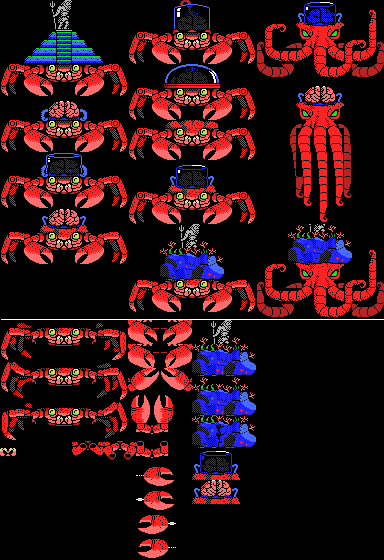
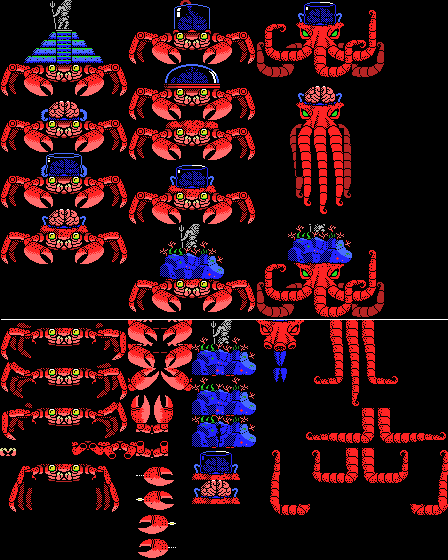
started adding actual tiles for scylla boss

diff --git a/java/src/xspelunker2/Bosses.java b/java/src/xspelunker2/Bosses.java
@@ -62,16 +62,16 @@ public static int atlantis_boss_collision[] = {
     
     public static void main(String args[]) throws Exception
     {
-        boss1Tiles();
-        boss1Sprites();
-
-        boss2Tiles();
-        boss2Sprites();
-
-        boss3Tiles();
-        boss3Sprites();
-
-        Boss4.main(args);
+//        boss1Tiles();
+//        boss1Sprites();
+//
+//        boss2Tiles();
+//        boss2Sprites();
+//
+//        boss3Tiles();
+//        boss3Sprites();
+//
+//        Boss4.main(args);
         
         boss5TilesCharybdis();
         boss5Sprites();
@@ -344,8 +344,8 @@ public static int atlantis_boss_collision[] = {
     
     public static void boss5TilesCharybdis() throws Exception
     {
-        // Step 1: create a base image that just has the crab tiles:
         {
+            // Create a base image that just has the crab tiles:
             // Charybdis body:
             String bossBaseTiles = "data/boss5-base-tiles.png";
             String boss5Tiles = "data/boss5.png";
@@ -353,7 +353,6 @@ public static int atlantis_boss_collision[] = {
             int collision[] = new int[256];
             findAvailableBossTiles(bossBaseTiles, availableTiles, collision, atlantis_boss_collision, true);
             BufferedImage baseImage = ImageIO.read(new File(bossBaseTiles));        
-//            int nameTable[][] = addBossTilesInGaps(baseImage, boss5Tiles, availableTiles, collision, false);
 
             List<int[]> nameTableBoxes = new ArrayList<>();
             nameTableBoxes.add(new int[]{0, 320, 128, 360});  // crab body basic position
@@ -365,8 +364,7 @@ public static int atlantis_boss_collision[] = {
             ImageIO.write(baseImage, "png", new File("data/boss5-base-tiles-charybdis.png"));        
         }
         
-        
-        List<Integer> nameTableData = new ArrayList<>();        
+        List<Integer> nameTableDataCharybdis = new ArrayList<>();        
         {
             // Charybdis + walk + island:
             String bossBaseTiles = "data/boss5-base-tiles-charybdis.png";  // these have the island built-in
@@ -378,6 +376,7 @@ public static int atlantis_boss_collision[] = {
 
             List<int[]> nameTableBoxes = new ArrayList<>();
             nameTableBoxes.add(new int[]{0, 320, 128, 560});  // crab walk
+            nameTableBoxes.add(new int[]{0, 464, 128, 512});  // crab jump
             nameTableBoxes.add(new int[]{192, 320, 256, 448});  // island
             List<int[][]> nametables = addBossTilesInGapsForBoxes(nameTableBoxes, baseImage, boss5Tiles, availableTiles, collision, false, false);
 
@@ -385,10 +384,10 @@ public static int atlantis_boss_collision[] = {
 
             GenerateTiles.extractTiles("data/boss5-tiles-charybdis1.png", "src/autogenerated/boss5-tiles-charybdis1", 24, 128);
 
-            int nameTable[][] = nametables.get(1);
-            addNameTable(nameTable, 0, 0, 8, 7, nameTableData);  // island (0)
-            addNameTable(nameTable, 0, 7, 0, 12, nameTableData);  // island damage 1 (0 + 8*7)
-            addNameTable(nameTable, 0, 12, 8, 16, nameTableData);  // island damage 2 (56 + 8*5)
+            int nameTable[][] = nametables.get(2);
+            addNameTable(nameTable, 0, 0, 8, 7, nameTableDataCharybdis);  // island (0)
+            addNameTable(nameTable, 0, 7, 0, 12, nameTableDataCharybdis);  // island damage 1 (0 + 8*7)
+            addNameTable(nameTable, 0, 12, 8, 16, nameTableDataCharybdis);  // island damage 2 (56 + 8*5)
         }
 
         {
@@ -408,8 +407,8 @@ public static int atlantis_boss_collision[] = {
             ImageIO.write(baseImage, "png", new File("data/boss5-tiles-charybdis2.png"));
 
             int nameTable[][] = nametables.get(1);
-            addNameTable(nameTable, 0, 0, 6, 4, nameTableData);  // vat (0)
-            addNameTable(nameTable, 9, 4, 6, 7, nameTableData);  // brain 1 (0 + 8*7)
+            addNameTable(nameTable, 0, 0, 6, 4, nameTableDataCharybdis);  // vat (0)
+            addNameTable(nameTable, 9, 4, 6, 7, nameTableDataCharybdis);  // brain 1 (0 + 8*7)
             
             GenerateTiles.extractTiles("data/boss5-tiles-charybdis2.png", "src/autogenerated/boss5-tiles-charybdis2", 24, 128);
         }
@@ -437,9 +436,31 @@ public static int atlantis_boss_collision[] = {
             
             GenerateTiles.extractTiles("data/boss5-tiles-charybdis3.png", "src/autogenerated/boss5-tiles-charybdis3", 24, 128);
         }
+        System.out.println("name tables: " + nameTableDataCharybdis.size() + " bytes");
+        Z80Assembler.dataToBinary(nameTableDataCharybdis, "src/autogenerated/boss5-nametables-charybdis.bin");       
         
-        System.out.println("name tables: " + nameTableData.size() + " bytes");
-        Z80Assembler.dataToBinary(nameTableData, "src/autogenerated/boss5-nametables-charybdis.bin");       
+        {
+            // Create a base image that just has the crab tiles:
+            // Charybdis body:
+            String bossBaseTiles = "data/boss5-base-tiles.png";
+            String boss5Tiles = "data/boss5.png";
+            boolean availableTiles[] = new boolean[256];
+            int collision[] = new int[256];
+            findAvailableBossTiles(bossBaseTiles, availableTiles, collision, atlantis_boss_collision, true);
+            BufferedImage baseImage = ImageIO.read(new File(bossBaseTiles));        
+
+            List<int[]> nameTableBoxes = new ArrayList<>();
+            nameTableBoxes.add(new int[]{256, 320, 448, 560});  // octopus body and tentacles
+            addBossTilesInGapsForBoxes(nameTableBoxes, baseImage, boss5Tiles, availableTiles, collision, false, false);
+
+            ImageIO.write(baseImage, "png", new File("data/boss5-base-tiles-scylla.png"));        
+        }
+
+//        List<Integer> nameTableDataScylla = new ArrayList<>();        
+//        // ...
+//        System.out.println("name tables: " + nameTableDataScylla.size() + " bytes");
+//        Z80Assembler.dataToBinary(nameTableDataScylla, "src/autogenerated/boss5-nametables-scylla.bin");       
+        
     }
 
     
@@ -702,7 +723,7 @@ public static int atlantis_boss_collision[] = {
                 }
                 if (found != -1 && !addAtTheEnd) break;
             }
-            if (found == -1) throw new Exception("Cannot find a gap for tile!");
+            if (found == -1) throw new Exception("Cannot find a gap for tile " + tileIndexesToAdd.indexOf(tileID) + " / " + tileIndexesToAdd.size()); 
             if (addAtTheEnd) {
                 int i = found / 16;
                 int j = found % 16;
